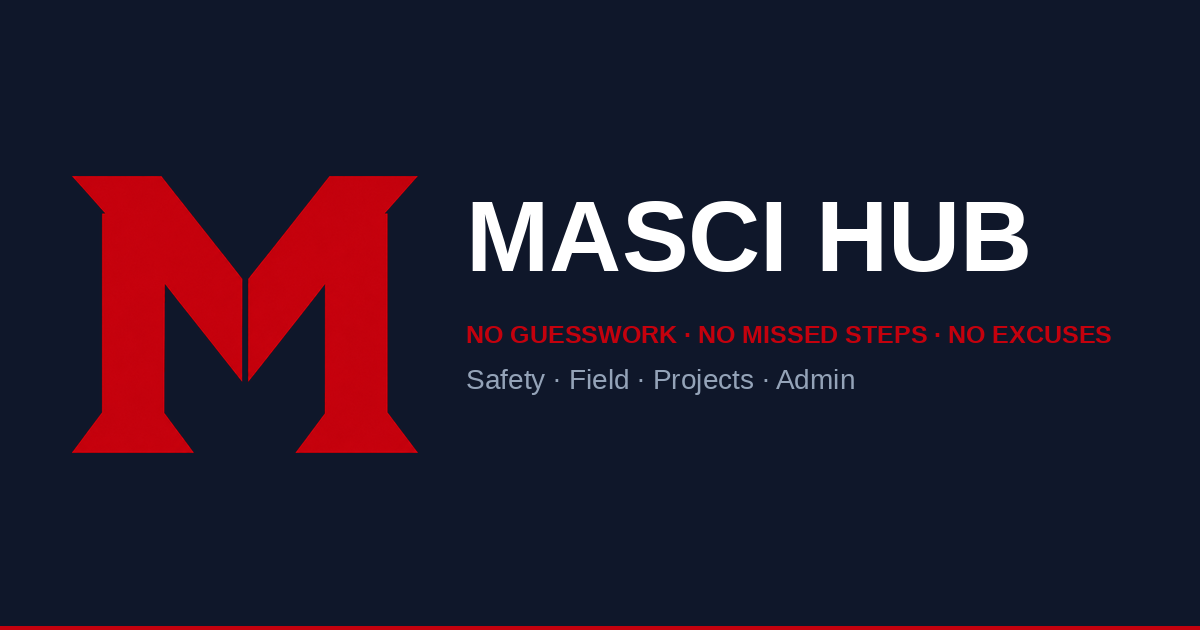
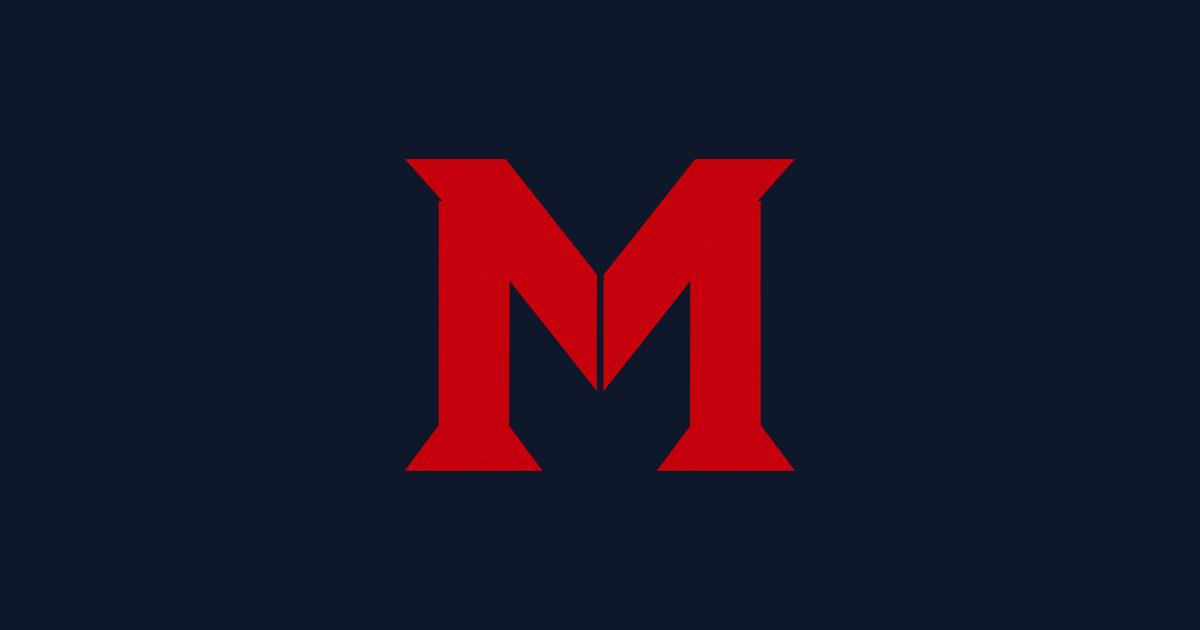
auto-commit for 5c67a9c6-f776-48dc-a35c-c26b43a22143

Changed region(s): [[0.0617, 0.2413, 0.925, 0.754], [0.0, 0.9952, 1.0, 1.0]]

diff --git a/frontend/public/index.html b/frontend/public/index.html
@@ -24,11 +24,11 @@
         <meta name="apple-mobile-web-app-title" content="MASCI Hub" />
         <meta name="application-name" content="MASCI Hub" />
 
-        <!-- Open Graph / Facebook / LinkedIn / Slack -->
+        <!-- Open Graph / Facebook / LinkedIn / Slack / iMessage -->
         <meta property="og:type" content="website" />
         <meta property="og:site_name" content="MASCI Hub" />
-        <meta property="og:title" content="MASCI Hub — Safety · Field · Projects · Admin" />
-        <meta property="og:description" content="No Guesswork. No Missed Steps. No Excuses. Daily reports, safety, equipment, training — every job under control." />
+        <meta property="og:title" content="MASCI Hub" />
+        <meta property="og:description" content="No Guesswork. No Missed Steps. No Excuses." />
         <meta property="og:url" content="https://mascidocs.com/" />
         <meta property="og:image" content="https://mascidocs.com/og-image.png" />
         <meta property="og:image:type" content="image/png" />
@@ -38,15 +38,9 @@
         <meta property="og:locale" content="en_US" />
         <meta property="og:locale:alternate" content="es_ES" />
 
-        <!-- Square preview for iMessage / WhatsApp / Discord which prefer 1:1 -->
-        <meta property="og:image" content="https://mascidocs.com/og-image-square.png" />
-        <meta property="og:image:type" content="image/png" />
-        <meta property="og:image:width" content="1200" />
-        <meta property="og:image:height" content="1200" />
-
         <!-- Twitter / X -->
         <meta name="twitter:card" content="summary_large_image" />
-        <meta name="twitter:title" content="MASCI Hub — Safety · Field · Projects · Admin" />
+        <meta name="twitter:title" content="MASCI Hub" />
         <meta name="twitter:description" content="No Guesswork. No Missed Steps. No Excuses." />
         <meta name="twitter:image" content="https://mascidocs.com/og-image.png" />
         <meta name="twitter:image:alt" content="MASCI Hub" />

diff --git a/scripts/install_og_image.py b/scripts/install_og_image.py
@@ -2,34 +2,35 @@
 """
 Generate the Open Graph + Twitter card image for MASCI Hub.
 
-Layout (1200×630, brand colors):
-    [ slate-900 background ]
-    [ red M mark on the left | wordmark + tagline on the right ]
-    [ red 4px bottom rule    ]
+Per user 2026-05-04: STRIP the card down to JUST the new red M on the
+slate-900 brand background. No wordmark, no tagline, no subtitle, no
+bottom rule. Clean, centered, single subject.
 
-Produces:
-    /app/frontend/public/og-image.png        (1200×630, ~PNG ≤ 200 KB)
-    /app/frontend/public/og-image-square.png (1200×1200, for iMessage / WhatsApp
-                                              which prefer square previews)
+A single image (1200×630) is published — link previews on Slack, iMessage,
+WhatsApp, LinkedIn, Twitter, etc. all accept the 1.91:1 landscape ratio.
+The square variant is dropped to avoid iMessage stacking two previews on
+top of each other.
+
+Output:
+    /app/frontend/public/og-image.png   (1200×630)
 """
 
 from __future__ import annotations
 from pathlib import Path
-from PIL import Image, ImageDraw, ImageFont
+from PIL import Image
 
 SRC_M = Path("/app/scripts/source/red_m_master.png")
 OUT_DIR = Path("/app/frontend/public")
-DARK_BG = (15, 23, 42)   # slate-900
-RED = (196, 1, 13)       # MASCI red (sampled from new mark)
-WHITE = (255, 255, 255)
-MUTED = (148, 163, 184)  # slate-400
+DARK_BG = (15, 23, 42)   # slate-900 — matches index.html theme_color
 
-FONT_BOLD = "/usr/share/fonts/truetype/liberation/LiberationSans-Bold.ttf"
-FONT_REG = "/usr/share/fonts/truetype/liberation/LiberationSans-Regular.ttf"
+# How much of the canvas height the M occupies. 0.62 leaves a clean
+# breathing border (~19% top + bottom margin) so the M is unmistakably
+# the focus and never crops into the link-preview UI chrome.
+M_FILL_RATIO = 0.62
 
 
 def _load_red_m() -> Image.Image:
-    """Same red-M extraction as install_icons.py (black → transparent, trim)."""
+    """Black → transparent + trim-to-bbox. Same pipeline as install_icons.py."""
     im = Image.open(SRC_M).convert("RGBA")
     px = im.load()
     w, h = im.size
@@ -41,90 +42,33 @@ def _load_red_m() -> Image.Image:
     return im.crop(im.getbbox())
 
 
-def _build_card(width: int, height: int, square: bool) -> Image.Image:
+def _build_card(width: int, height: int) -> Image.Image:
     img = Image.new("RGB", (width, height), DARK_BG)
-    draw = ImageDraw.Draw(img)
     mark = _load_red_m()
-
-    # Left-side red M.
-    if square:
-        # Centered top, smaller text underneath
-        m_target = int(height * 0.42)
-        scale = m_target / max(mark.size)
-        nw, nh = int(mark.size[0] * scale), int(mark.size[1] * scale)
-        m_resized = mark.resize((nw, nh), Image.LANCZOS)
-        m_x = (width - nw) // 2
-        m_y = int(height * 0.10)
-        img.paste(m_resized, (m_x, m_y), m_resized)
-        text_anchor_y = m_y + nh + int(height * 0.06)
-        text_align_x = width // 2
-        align = "center"
-    else:
-        # Side-by-side: M on left, text right of it
-        m_target = int(height * 0.55)
-        scale = m_target / max(mark.size)
-        nw, nh = int(mark.size[0] * scale), int(mark.size[1] * scale)
-        m_resized = mark.resize((nw, nh), Image.LANCZOS)
-        m_x = int(width * 0.06)
-        m_y = (height - nh) // 2
-        img.paste(m_resized, (m_x, m_y), m_resized)
-        text_anchor_y = int(height * 0.32)
-        text_align_x = m_x + nw + int(width * 0.04)
-        align = "left"
-
-    # Wordmark
-    wordmark_size = int(height * 0.16) if not square else int(height * 0.10)
-    wordmark = ImageFont.truetype(FONT_BOLD, wordmark_size)
-    draw.text(
-        (text_align_x, text_anchor_y),
-        "MASCI HUB",
-        fill=WHITE,
-        font=wordmark,
-        anchor="lt" if align == "left" else "mt",
-    )
-
-    # Tagline (red, bold)
-    tag_size = int(height * 0.040) if not square else int(height * 0.030)
-    tag_font = ImageFont.truetype(FONT_BOLD, tag_size)
-    tag_y = text_anchor_y + wordmark_size + int(height * 0.04)
-    draw.text(
-        (text_align_x, tag_y),
-        "NO GUESSWORK · NO MISSED STEPS · NO EXCUSES",
-        fill=RED,
-        font=tag_font,
-        anchor="lt" if align == "left" else "mt",
-    )
-
-    # Subtitle
-    sub_size = int(height * 0.045) if not square else int(height * 0.032)
-    sub_font = ImageFont.truetype(FONT_REG, sub_size)
-    sub_y = tag_y + tag_size + int(height * 0.03)
-    draw.text(
-        (text_align_x, sub_y),
-        "Safety · Field · Projects · Admin",
-        fill=MUTED,
-        font=sub_font,
-        anchor="lt" if align == "left" else "mt",
-    )
-
-    # Bottom 4px red rule (full-bleed accent)
-    draw.rectangle([0, height - 4, width, height], fill=RED)
-
+    target = int(height * M_FILL_RATIO)
+    mw, mh = mark.size
+    scale = target / max(mw, mh)
+    new_w, new_h = int(mw * scale), int(mh * scale)
+    resized = mark.resize((new_w, new_h), Image.LANCZOS)
+    pos = ((width - new_w) // 2, (height - new_h) // 2)
+    img.paste(resized, pos, resized)
     return img
 
 
 def main() -> None:
     OUT_DIR.mkdir(parents=True, exist_ok=True)
 
-    landscape = _build_card(1200, 630, square=False)
+    landscape = _build_card(1200, 630)
     p1 = OUT_DIR / "og-image.png"
     landscape.save(p1, "PNG", optimize=True)
     print(f"  wrote {p1.name:25s} 1200x630   {p1.stat().st_size} bytes")
 
-    square = _build_card(1200, 1200, square=True)
-    p2 = OUT_DIR / "og-image-square.png"
-    square.save(p2, "PNG", optimize=True)
-    print(f"  wrote {p2.name:25s} 1200x1200  {p2.stat().st_size} bytes")
+    # Remove the square variant if it exists from the previous run — having
+    # two og:image declarations causes iMessage to stack both previews.
+    sq = OUT_DIR / "og-image-square.png"
+    if sq.exists():
+        sq.unlink()
+        print(f"  removed {sq.name} (single og:image policy)")
 
 
 if __name__ == "__main__":

diff --git a/memory/PRD.md b/memory/PRD.md
@@ -1,5 +1,20 @@
 # MASCI Safety Hub — PRD
 
+## 2026-05-04 — OG Card Stripped to Just the Red M (iMessage stacking fix)
+
+User screenshot showed iMessage rendering TWO link previews stacked on top of each other — caused by declaring `og:image` twice in `index.html` (landscape + square). User also asked to strip the card to just the M, no other wording.
+
+### What changed
+- `/app/scripts/install_og_image.py` rewritten — single 1200×630 image, just the centered red M on slate-900 (`#0f172a`). M fills 62% of canvas height for clean breathing border. No wordmark, tagline, subtitle, or rule. Square variant deleted.
+- `/app/frontend/public/index.html` — collapsed two `og:image` declarations to one. `og:title` shortened to `"MASCI Hub"`. Same change on `twitter:title`. Single 1200×630 image works on every link-preview surface (Slack / iMessage / WhatsApp / LinkedIn / Twitter / Discord all accept 1.91:1).
+
+### Verified
+- `og-image.png` → HTTP 200, 1200×630, 71.9 KB
+- `og-image-square.png` removed (was the source of the double-render)
+- HTML now contains exactly **1** `og:image` tag
+- Visual rendered: red M (`#C4010D`) centered on solid slate-900, no clipping, no extras
+
+
 ## 2026-05-04 — Open Graph / Twitter Card Branded Preview
 
 User accepted the proposed enhancement. Anyone pasting a `mascidocs.com` link into Slack / iMessage / SMS / WhatsApp / LinkedIn / Twitter now gets a branded card preview instead of just the URL.
